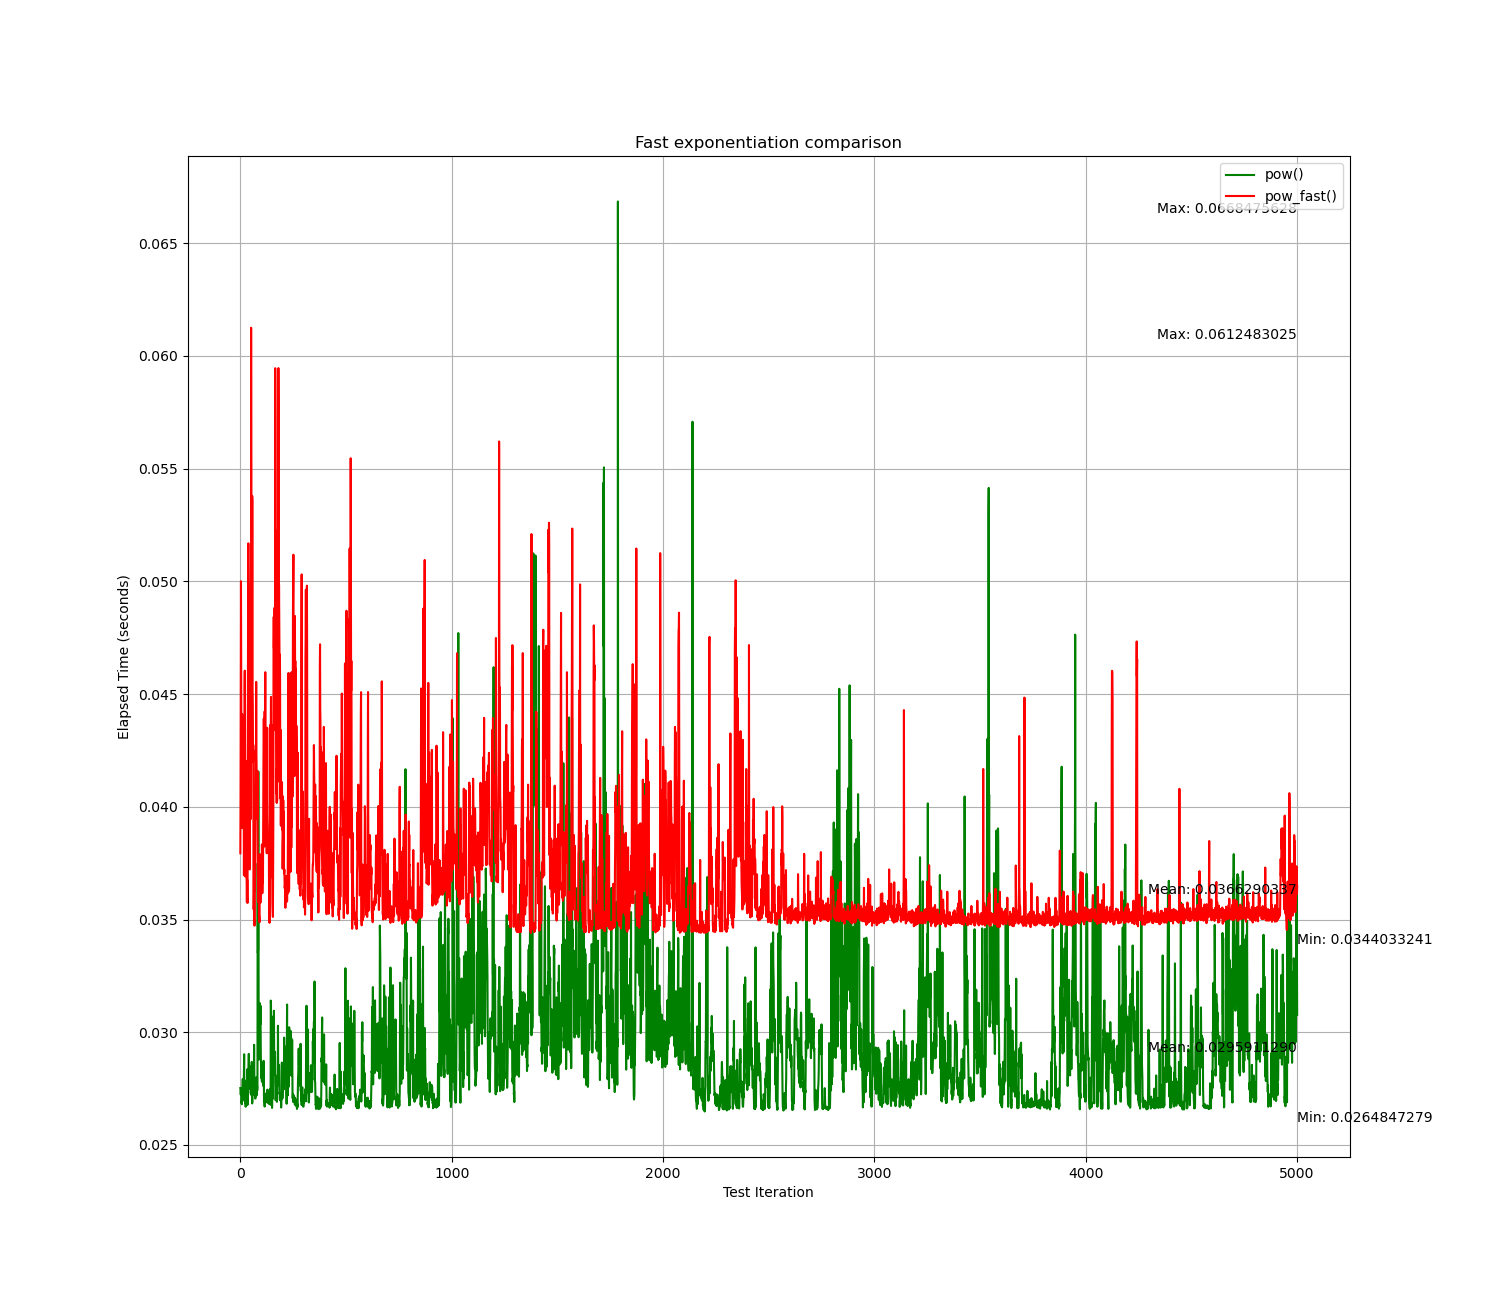
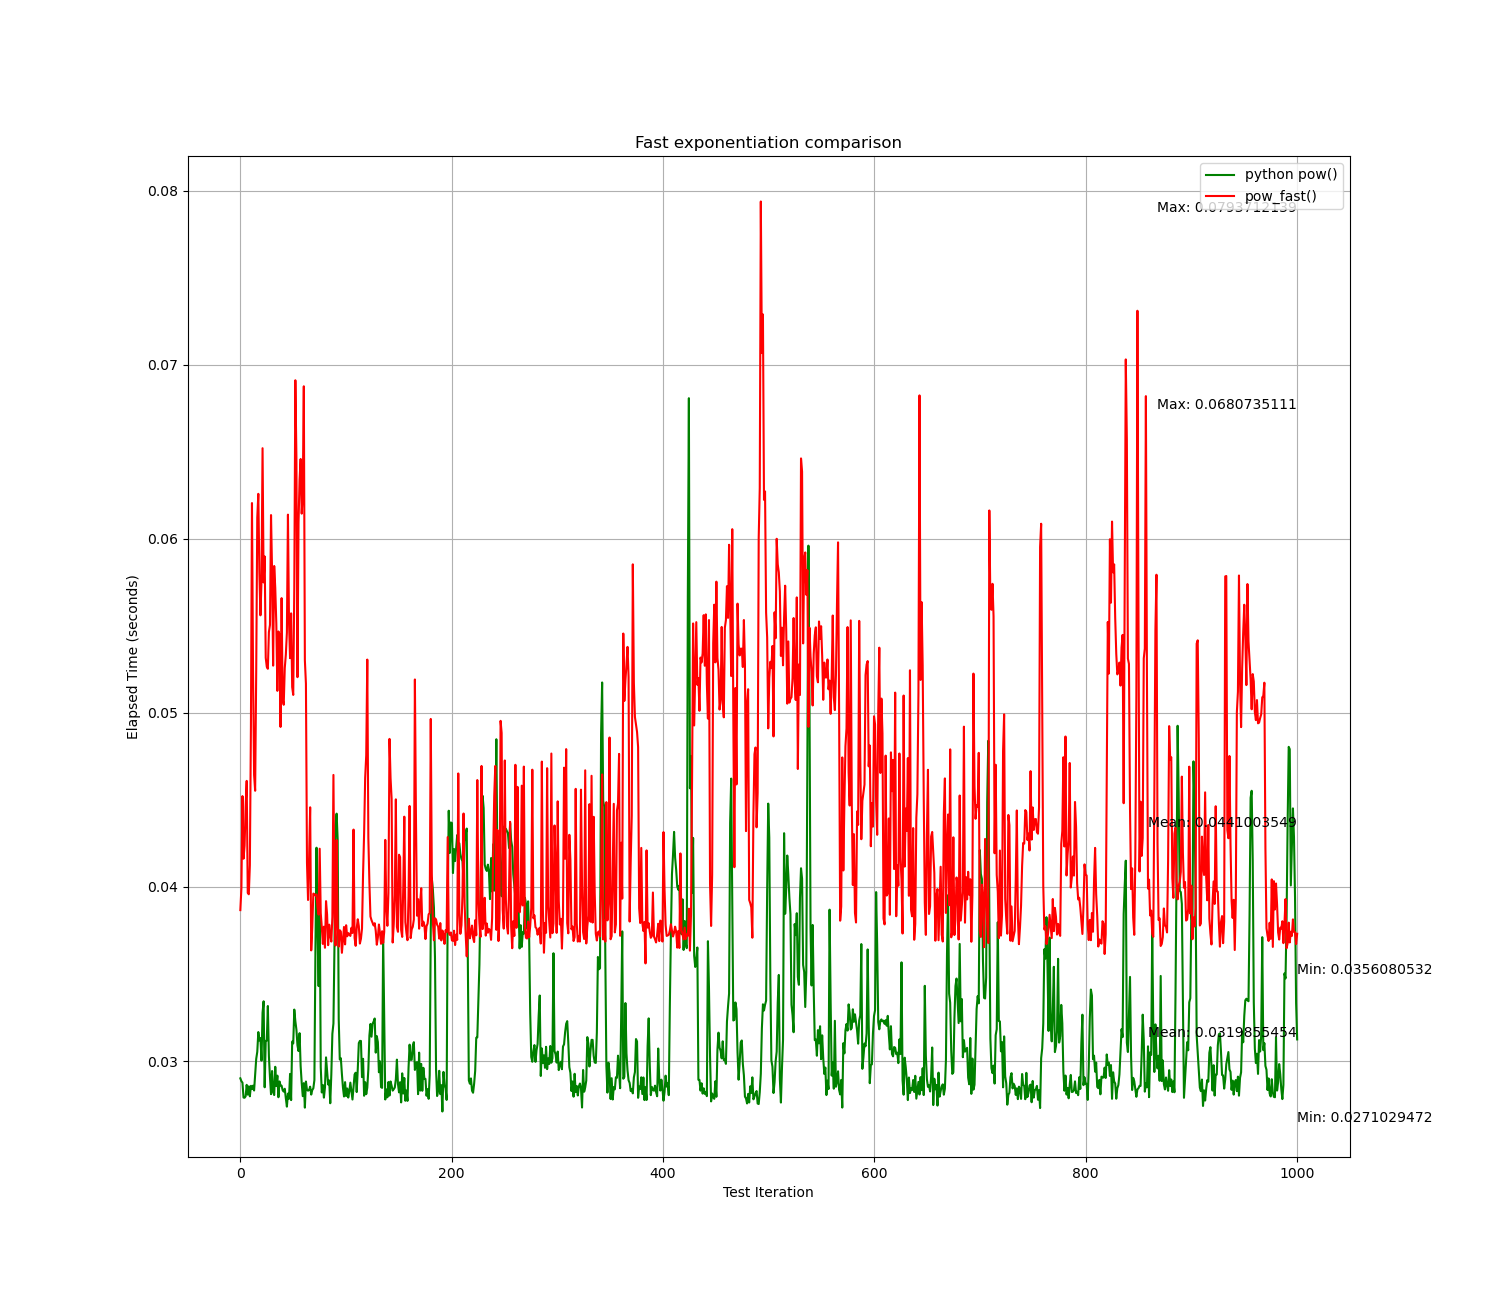
update graph + finished CRT-decryption + incoming oaep scheme

diff --git a/benchmark.py b/benchmark.py
@@ -31,20 +31,23 @@ def profile_sample():
     obj.read_profile()
 
 def gcd_test():
+    #Comparison between my implementation of gcd and python's built-in function
     n = 5000
     obj = GraphVisualization("GCD comparison")
     obj.measure_execution_time(n, gcd, random.randint(2**2048, 2**2049), random.randint(2**2048, 2**2049))
     obj.measure_execution_time(n, math.gcd, random.randint(2**2048, 2**2049), random.randint(2**2048, 2**2049))
-    obj.plot_data(["green", "red"], ["gcd()", "GCD()"], show_stats=True)
+    obj.plot_data(["green", "red"], ["gcd()", "python gcd()"], show_stats=True)
 
 def pow_test():
-    n = 5000
+    #Comparison between my implementation of fast exponentiation (pow_fast) and python's built-in function
+    n = 1000
     obj = GraphVisualization("Fast exponentiation comparison")
     obj.measure_execution_time(n, pow, random.randint(2**2048, 2**2049), random.randint(2**2048, 2**2049), random.randint(2**2048, 2**2049))
     obj.measure_execution_time(n, pow_fast, random.randint(2**2048, 2**2049), random.randint(2**2048, 2**2049), random.randint(2**2048, 2**2049))
-    obj.plot_data(["green", "red"], ["pow()", "pow_fast()"], show_stats=True)
+    obj.plot_data(["green", "red"], ["python pow()", "pow_fast()"], show_stats=True)
 
 def rng_test():
+    #Comparison between different way of generating a random number
     n = 1000
     obj = GraphVisualization("RNG comparison")
     obj.measure_execution_time(n, random.getrandbits, 2048)
@@ -59,5 +62,14 @@ def rsa_GMP_test():
     obj.measure_execution_time(n, generate_gmp, 4096)
     obj.plot_data(["green"], ["generate_gmp()"], show_stats=True)
 
+def decryption_using_crt():
+    n = 250
+    N, e, d = generate(2048)
+    obj = GraphVisualization("CRT and primitive decryption")
+    obj.measure_execution_time(n, crt_decrypt, random.randint(2**255, 2**256), N, e, d)
+    obj.measure_execution_time(n, primitive_exp, random.randint(2**255, 2**256), d, N)
+    obj.plot_data(["green", "red"], ["crt_decryption()", "decryption()"], show_stats=True)
+
+
 if __name__ == "__main__":
-    rsa_GMP_test()
+    pow_test()

diff --git a/pubcrypt/cryptosystem/rsa.py b/pubcrypt/cryptosystem/rsa.py
@@ -7,7 +7,7 @@ def generate(nBits, e=65537):
     if nBits < 2048:
         raise ValueError(("Incorrect key length. nBits must be equal or greater than 2048"))
     
-    elif e%2 == 0 or not pow(2, 16) <= e <= pow(2, 256):
+    elif e%2 == 0 or not pow_fast(2, 16) <= e <= pow_fast(2, 256):
         raise ValueError("Incorrect puclic exponent. e must be odd and in the range [2^16, 2^256]")
     pBits = nBits//2
     
@@ -23,10 +23,22 @@ def generate(nBits, e=65537):
 def primitive_exp(m, exp, n):
     """ This function represent the encryption/decryption/signature operation """
     if 0 < m < n-1:
-        return pow(m, exp, n)
+        return pow_fast(m, exp, n)
 
     else:
         raise ValueError("Data representative out of range")
+
+
+def crt_decrypt(ciphertext, n, e, d):
+    p, q = prime_recovery(n, e, d)
+    dp = d % (p - 1)
+    dq = d % (q - 1)
+    q_inv = invmod(q, p)
+    m1 = pow_fast(ciphertext, dp, p)
+    m2 = pow_fast(ciphertext, dq, q)
+
+    h = (q_inv * (m1 - m2)) % p
+    return m2 + h * q   #return plaintext
 
 
 def prime_recovery(n, e, d):
@@ -36,10 +48,10 @@ def prime_recovery(n, e, d):
     r = a - m * n
     b = (n - r) // (m + 1) + 1
 
-    if pow(b, 2) <= (n << 2):
+    if pow_fast(b, 2) <= (n << 2):
         raise ValueError("Error")
 
-    y = isqrt(pow(b, 2) - (n << 2))
+    y = isqrt(pow_fast(b, 2) - (n << 2))
     return (b + y) >> 1, (b - y) >> 1
 
 

diff --git a/pubcrypt/scheme/oaep.py b/pubcrypt/scheme/oaep.py
@@ -1,0 +1,41 @@
+from random import getrandbits
+import hashlib
+
+Hash = hashlib.new("sha256")
+hlen = Hash.digest_size
+
+def rsa_oaep_encrypt(plaintext, n, e, label=b''):
+    mLen = len(plaintext)
+    k = len(n.to_bytes((n.bit_length() + 7) // 8, byteorder='big'))
+
+    if len(label) > hlen:
+        raise ValueError("label too long")
+    
+    if mLen > k - 2*hlen - 2:
+        raise ValueError("Message too long")
+
+    if label == b'':
[1 lines of base64/hex data omitted]
+
+    PS = b'\x00' * (k - mLen - 2 * hlen - 2)
+    DB = bytes(hlen) | PS | b'\0x01' | plaintext
+    
+    seed = getrandbits(hlen)
+    db_mask = MGF(seed, k-hlen-1)
+    maskedDB = bytes(a ^ b for a, b in zip(DB, db_mask))
+    seedMask = MGF(maskedDB, hlen)
+    maskedSeed = bytes(a ^ b for a, b in zip(seed, seedMask))
+
+    return b'\0x00' | maskedSeed | maskedDB
+
+
+def MGF(seed, mask_len):
+    mask = b""
+    iterations = (mask_len + hlen - 1) // hlen
+
+    for counter in range(iterations):
+        counter_bytes = counter.to_bytes(4, byteorder='big')
+        data = seed + counter_bytes
+        mask += hashlib.new("sha256", data).digest()
+
+    return mask[:mask_len]

diff --git a/test.py b/test.py
@@ -1,0 +1,12 @@
+from pubcrypt.cryptosystem.rsa import generate
+from pubcrypt.scheme.oaep import *
+
+
+if __name__ == "__main__":
+    n, e, d = generate(2048)
+    plaintext = b"Hello, RSA OAEP!"
+    ciphertext = rsa_oaep_encrypt(plaintext, n, e)
+    decrypted_text = rsa_oaep_decrypt(ciphertext, n, d)
+
+    print("Original plaintext:", plaintext.decode('utf-8'))
+    print("Decrypted plaintext:", decrypted_text.decode('utf-8'))
